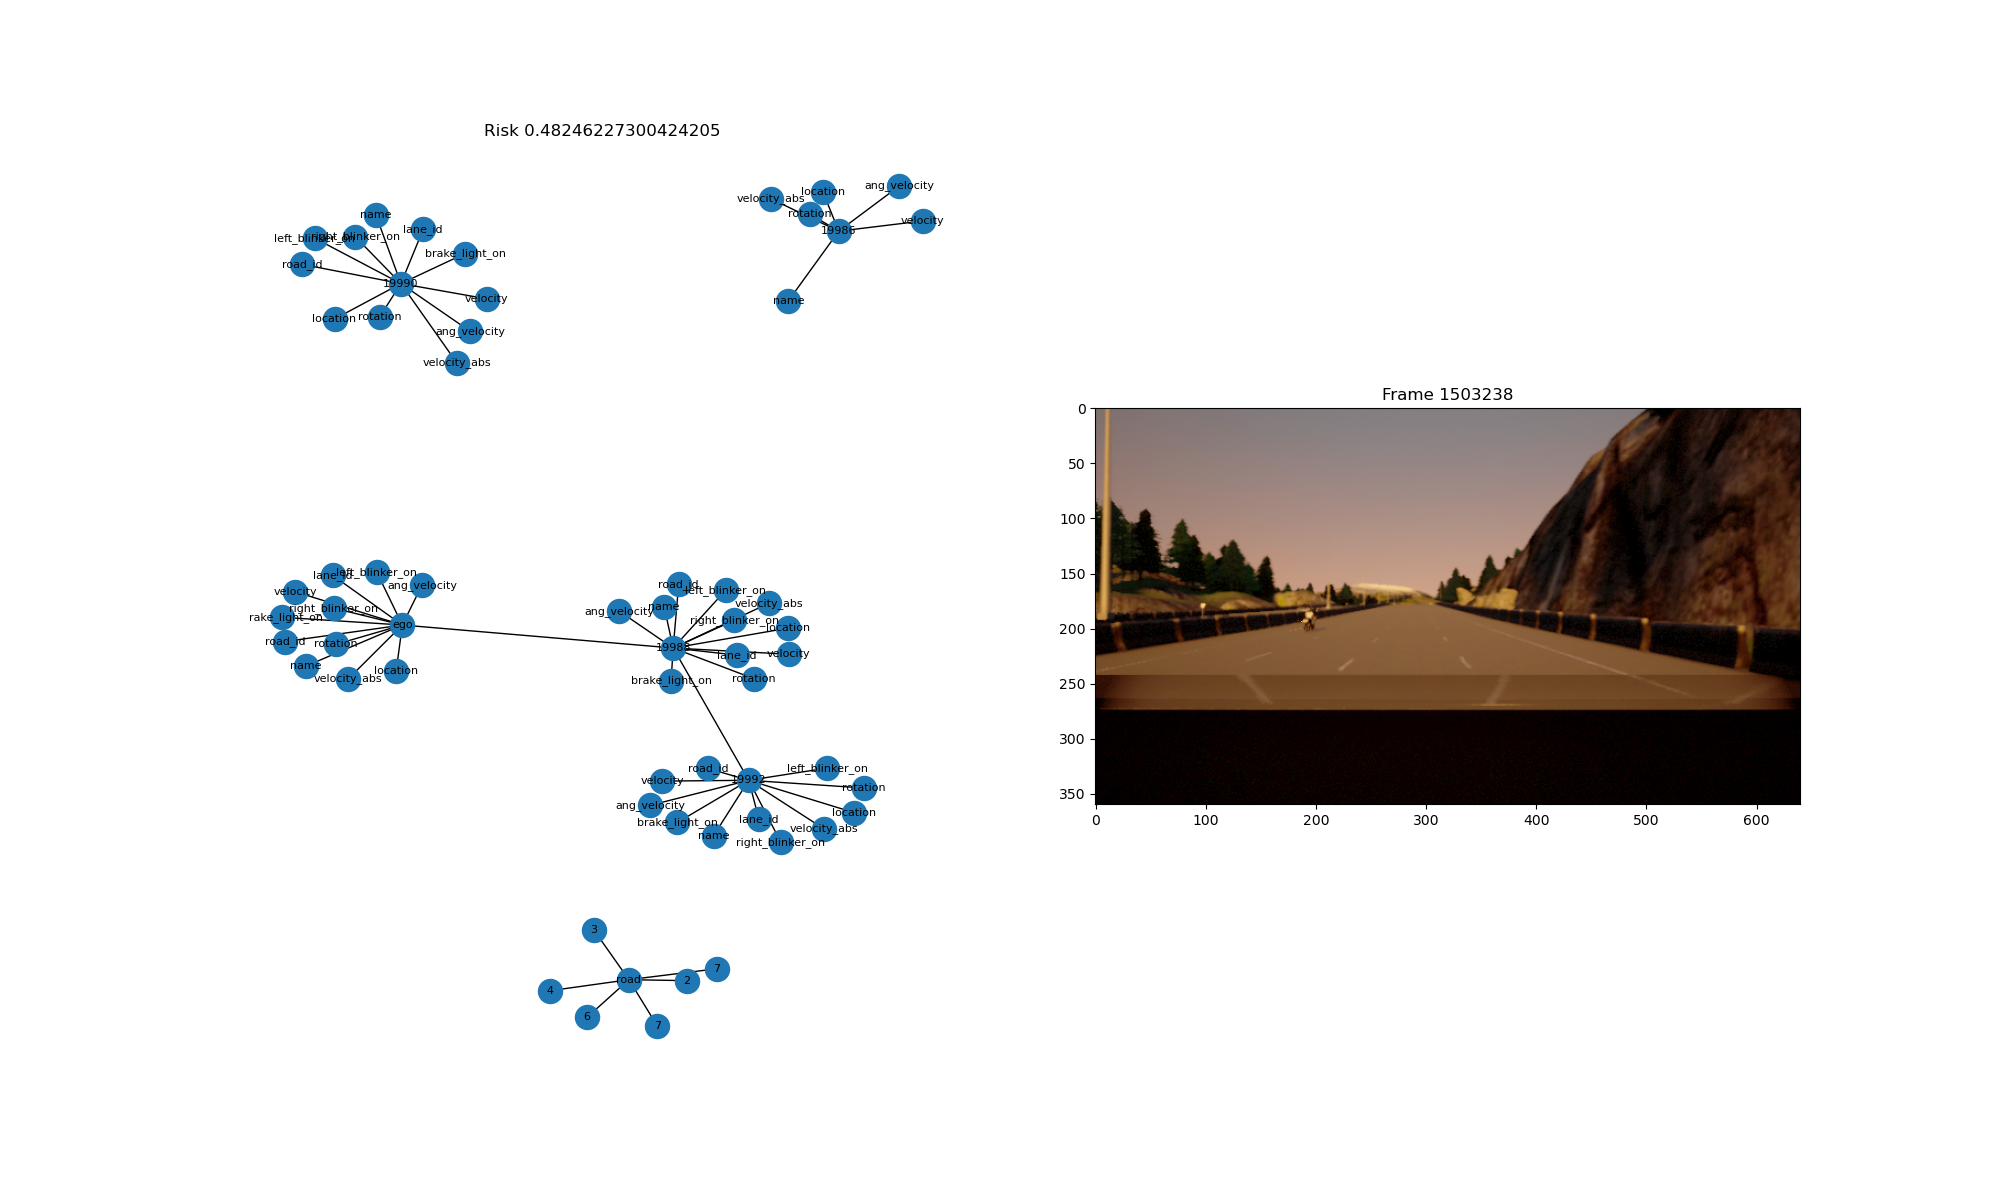
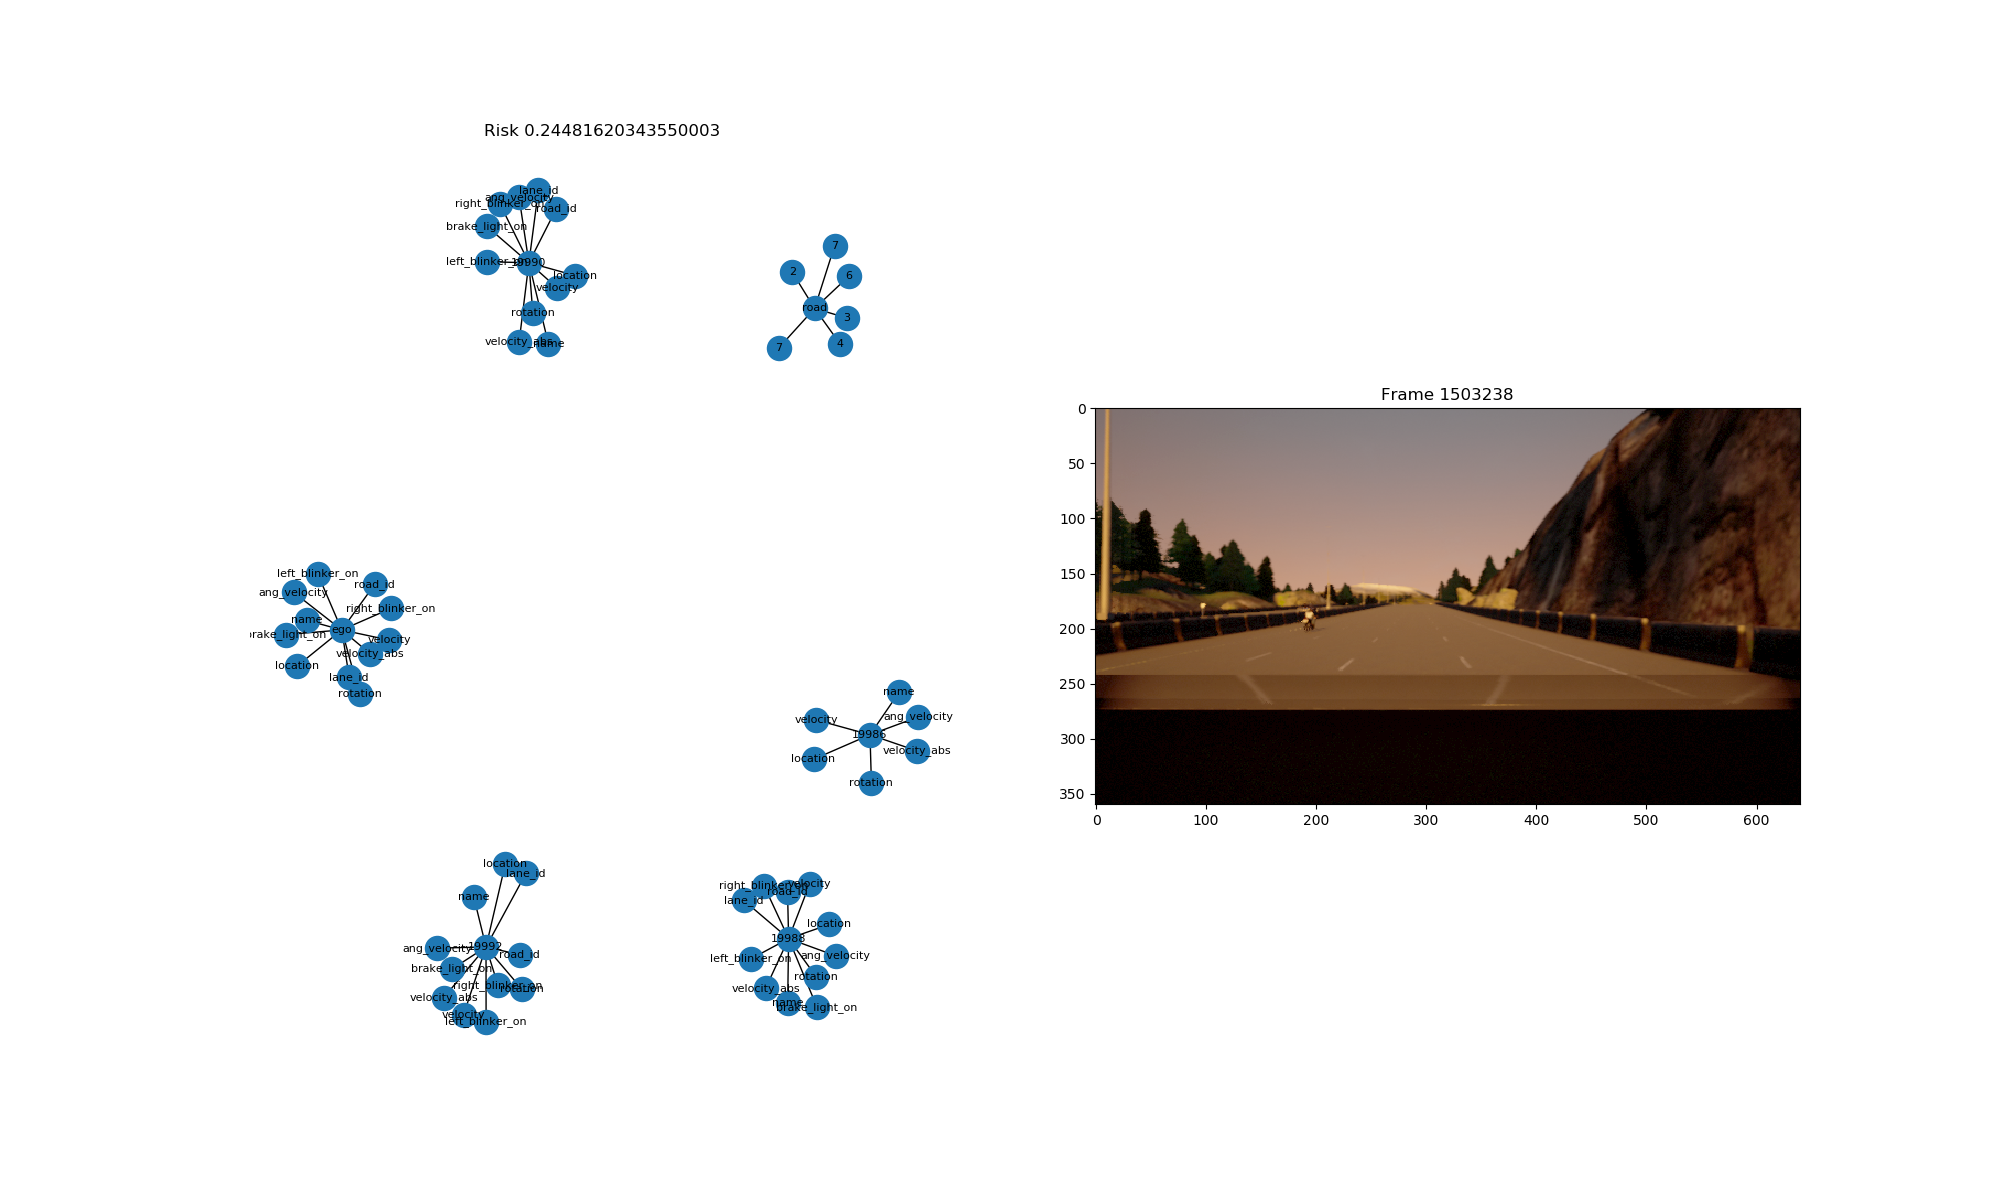
Bug fix with adding actor type to nodes

diff --git a/core/scene_graph/scene_graph.py b/core/scene_graph/scene_graph.py
@@ -3,7 +3,7 @@ import networkx as nx
 import matplotlib.pyplot as plt
 import matplotlib.animation as animation
 import os
-from relation_extractor import Relations, ActorType, RelationExtractor
+from .relation_extractor import Relations, ActorType, RelationExtractor
 import pdb, json, random
 from pathlib import Path
 from glob import glob
@@ -12,7 +12,7 @@ import pickle as pkl
 
 
 class Node:
-    def __init__(self, name, attr, type, is_entity=False):
+    def __init__(self, name, attr, type=None, is_entity=False):
         self.name = name
         self.attr = attr
         self.label = name #+ "\n" + str(attr)
@@ -39,7 +39,7 @@ class SceneGraph:
         
     #add single node to graph. node can be any hashable datatype including objects.
     def add_node(self, node):
-        self.g.add_node(node, attr=node.attr, label=node.label, type=self.relation_extractor.get_actor_type(node))
+        self.g.add_node(node, attr=node.attr, label=node.label)
         if(node.is_entity):
             self.entity_nodes.append(node)
         
@@ -64,38 +64,39 @@ class SceneGraph:
     def add_actor_dict(self, actordict):
         for actor_id, attr in actordict.items():
             n = Node(actor_id, attr, True)   #using the actor key as the node name and the dict as its attributes.
+            n.type = self.relation_extractor.get_actor_type(n)
             self.add_node(n)
             self.add_attributes(n, attr)
             
     #adds lanes and their dicts. constructs relation between each lane and the root road node.
     def add_lane_dict(self, lanedict):
         
-        n = Node(str(lanedict['ego_lane']['lane_id']), lanedict['ego_lane'], True) #todo: change to true when lanedict entry is complete
+        n = Node(str(lanedict['ego_lane']['lane_id']), lanedict['ego_lane'], ActorType.LANE, True) #todo: change to true when lanedict entry is complete
         self.add_node(n)
         self.add_relation([n, Relations.partOf, self.road_node])
 
         for lane in lanedict['left_lanes']:
             # for lane_id, laneattr in lane.items():
-            n = Node(str(lane['lane_id']), lane, True) #todo: change to true when lanedict entry is complete
+            n = Node(str(lane['lane_id']), lane, ActorType.LANE, True) #todo: change to true when lanedict entry is complete
             self.add_node(n)
             self.add_relation([n, Relations.partOf, self.road_node])
 
         for lane in lanedict['right_lanes']:
-            n = Node(str(lane['lane_id']), lane, True) #todo: change to true when lanedict entry is complete
+            n = Node(str(lane['lane_id']), lane, ActorType.LANE, True) #todo: change to true when lanedict entry is complete
             self.add_node(n)
             self.add_relation([n, Relations.partOf, self.road_node])
             
     #add signs as entities of the road.
     def add_sign_dict(self, signdict):
         for sign_id, signattr in signdict.items():
-            n = Node(sign_id, signattr, True)
+            n = Node(sign_id, signattr, ActorType.SIGN, True)
             self.add_node(n)
             self.add_relation([n, Relations.partOf, self.road_node])
 
     #parses attributes of ego/actors
     def add_attributes(self, node, attrdict):
         for attr, values in attrdict.items():
-            n = Node(attr, values, False)   #attribute nodes are not entities themselves
+            n = Node(attr, values, None, False)   #attribute nodes are not entities themselves
             self.add_node(n)
             self.add_relation([node, Relations.hasAttribute, n])
 
@@ -104,7 +105,7 @@ class SceneGraph:
         for key, attrs in framedict.items():
             # import pdb; pdb.set_trace()
             if key == "ego":
-                egoNode = Node(key, attrs, True)
+                egoNode = Node(key, attrs, ActorType.CAR, True)
                 self.add_node(egoNode)
                 self.add_attributes(egoNode, attrs)
             elif key == "lane":
